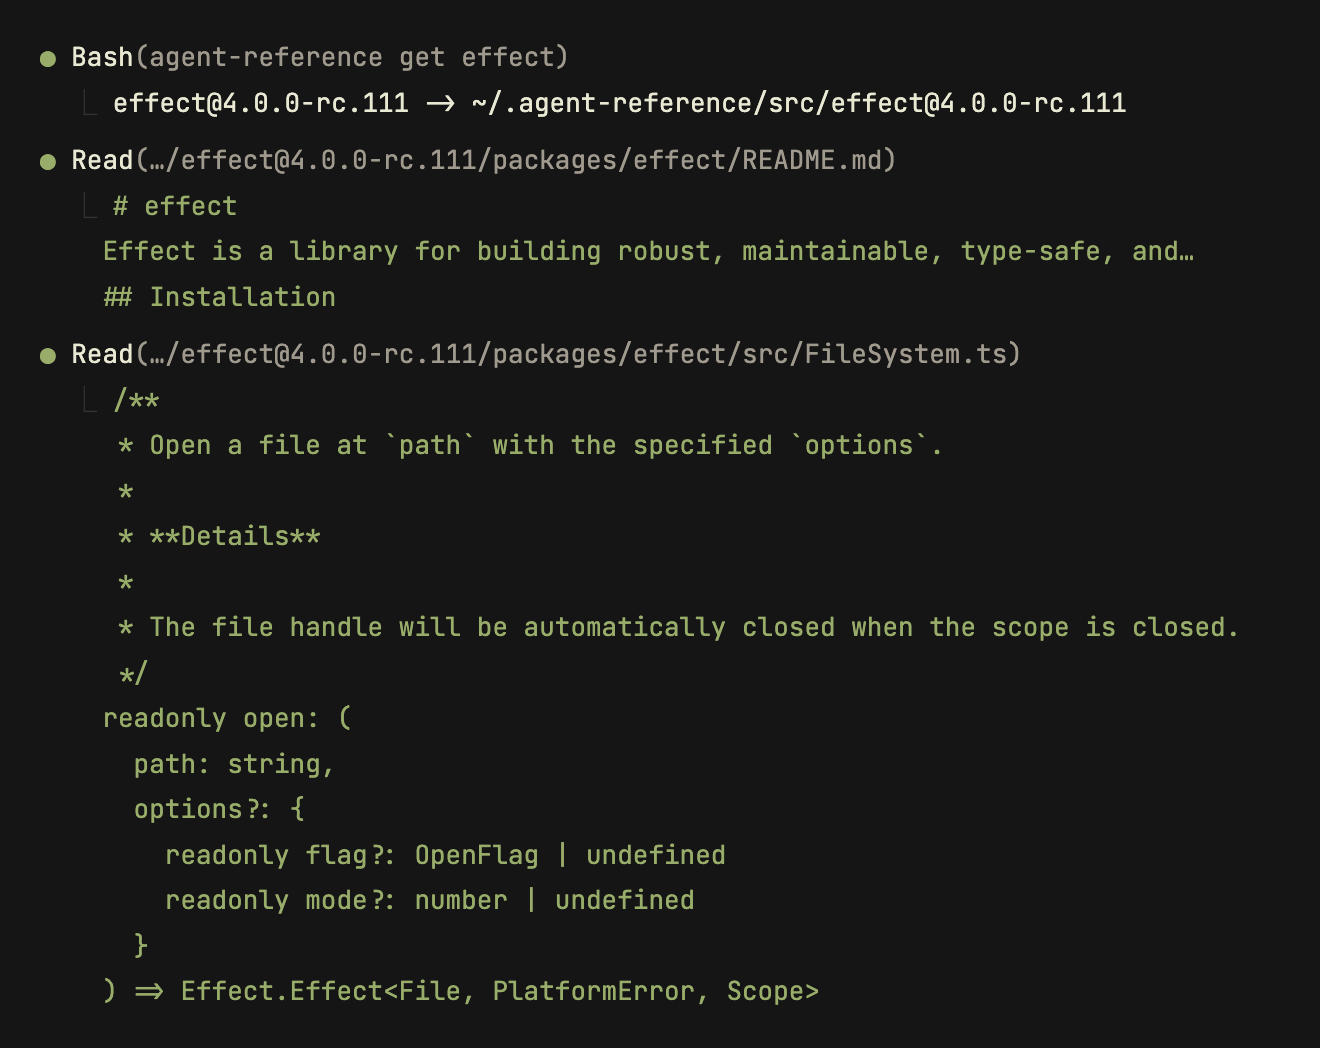
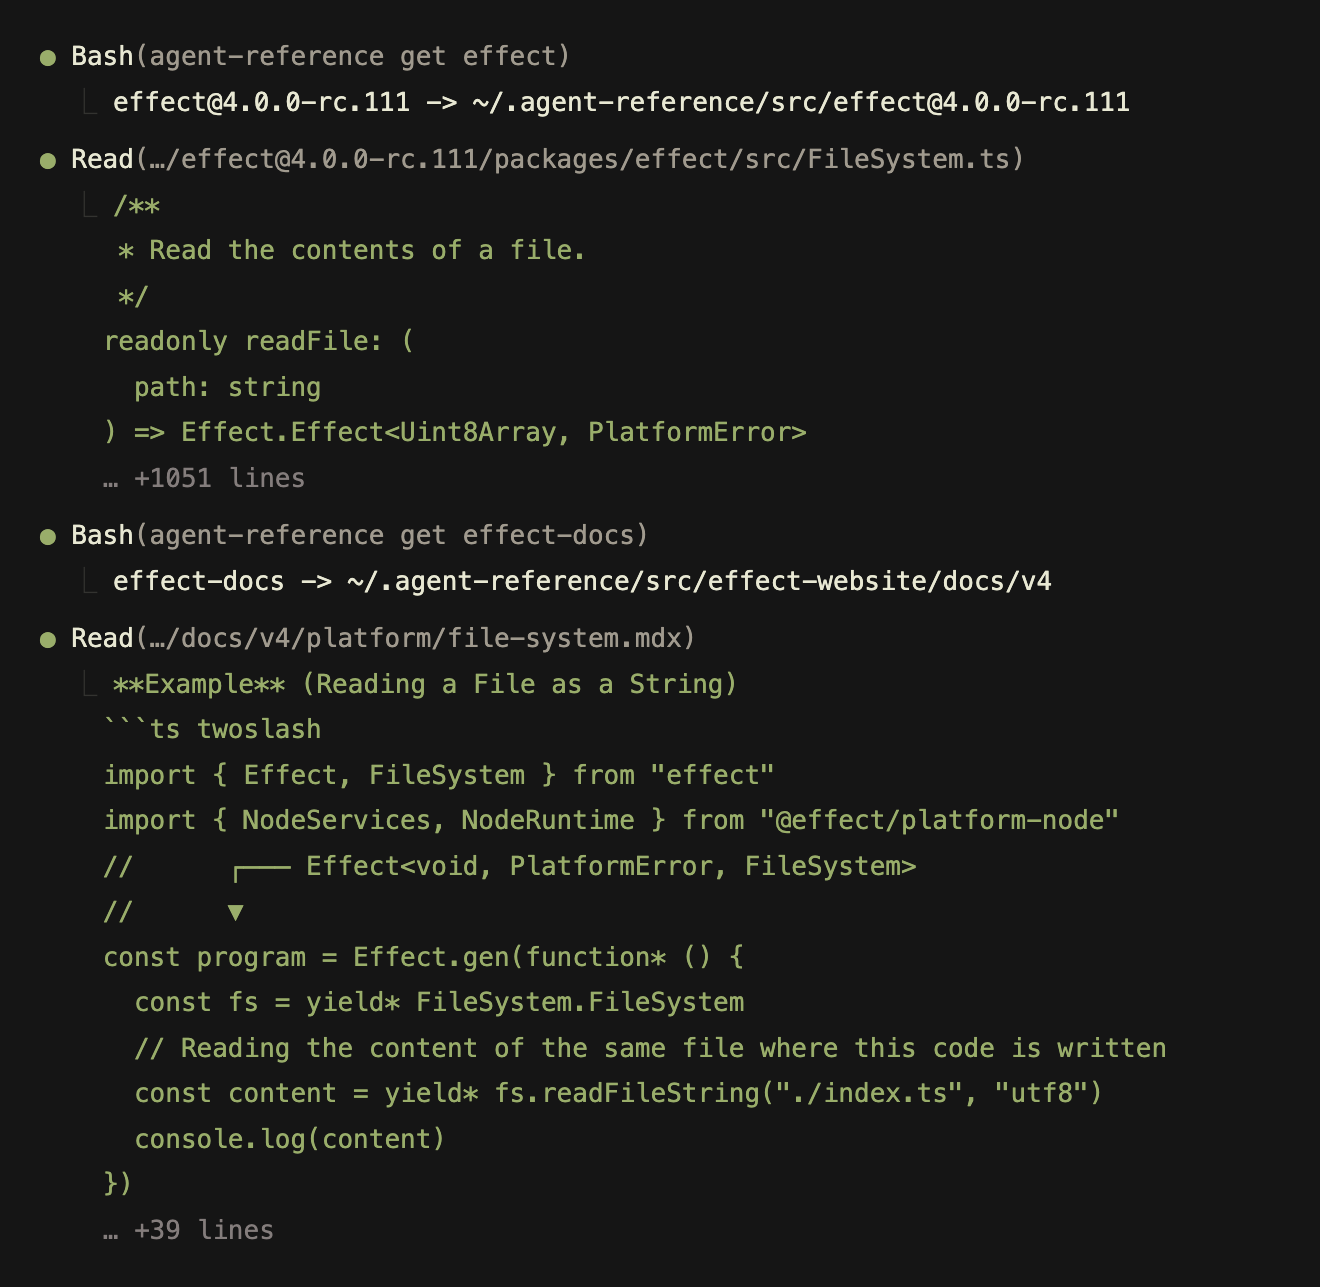
site: read the FileSystem docs page on the first screen, folded like a harness does
The right pane read the package README third, which is prose about installing and says nothing an agent could not have guessed. It now mirrors the left pane call for call: the bundle the agent read there is src/FileSystem.ts here, and the docs page it fetched as markup there is the v4 file-system.mdx out of the website repository here, reached through the effect-docs reference the config already declares. Four calls a side.

FileSystem.ts is quoted at its readFile declaration, six lines, the same function the minified line on the left mangles. The docs page is quoted at the example that reads a file as a string, with the type twoslash infers for it. Both close on a fold line, "… +N lines", the way a harness collapses a long result; N counts the lines of the file after the ones shown, so it is a fact about the file. Session, hero.ts, and the served markdown all carry the fold, dimmed where a surface can dim it.

The served markdown now quotes a fence, so its transcript is fenced with the longer rail fence() already lengthens for that case, and the test that strips fences from index.md learns to match a rail against itself.

diff --git a/site/code-samples.ts b/site/code-samples.ts
@@ -233,25 +233,30 @@ export const trees = {
  * underlines the names that correspond to the panel beside it, since that
  * correspondence is what an example exists to show.
  *
- * `today` and `after` are the first screen, and carry no prompt: three things
- * an agent does when it needs a library and what each got back, against what
+ * `today` and `after` are the first screen, and carry no prompt: what an agent
+ * does when it needs a library and what each attempt got back, against what
  * the tool gives it. The guess leads, because it is the one whose cost a
  * reader has paid personally: it ends in a build that failed rather than in
  * tokens nobody watched. It is also the one block that names another library,
  * since it needs an API that actually moved, and `useVirtual` became
  * `useVirtualizer` between two majors of `@tanstack/react-virtual`. Effect
- * carries the rest: the markup is what the docs site hands a fetch, and every
- * line on the right is real, the README and `src/FileSystem.ts` of the effect
- * package at that tag, quoted verbatim. The bundle line on the left is the
- * pattern rather than the package: Effect's own published build keeps its
- * comments, and the row stands for the many that do not. Each of those two is
- * one line, because that is what a minified bundle and a fetched page are: the
- * elisions that used to chop them into column-width pieces were the narrow
- * pane of one surface written into the source of all three, and an image of
- * that reads as text cut for no reason. Every surface cuts them its own way
- * now, and none of them cuts the data. A result line marked `! ` went wrong
- * and `+ ` went right; the markers are read off before the line is painted. `[[name]]` anywhere in a transcript marks a name
- * the config or the tree beside it declares, so the eye can join the two.
+ * carries the rest: the bundle and the markup on the left are the two things
+ * the right reads as they were written, `src/FileSystem.ts` of the effect
+ * package at that tag and the v4 FileSystem page out of the website
+ * repository, quoted verbatim less blank lines. A result the agent did not
+ * read to the end closes on `… +N lines`, the way a harness folds a long
+ * one; N counts the lines of the file after the ones shown, so it is true of
+ * the file rather than a number that looked right. The bundle line on the
+ * left is the pattern rather than the package: Effect's own published build
+ * keeps its comments, and the row stands for the many that do not. Each of
+ * those two is one line, because that is what a minified bundle and a fetched
+ * page are: the elisions that used to chop them into column-width pieces were
+ * the narrow pane of one surface written into the source of all three, and an
+ * image of that reads as text cut for no reason. Every surface cuts them its
+ * own way now, and none of them cuts the data. A result line marked `! ` went
+ * wrong and `+ ` went right; the markers are read off before the line is
+ * painted. `[[name]]` anywhere in a transcript marks a name the config or the
+ * tree beside it declares, so the eye can join the two.
  *
  * Paths are the readable form, not the literal one. The store keys a checkout
  * by commit, and a commit is not something a person reads, so the page names
@@ -272,25 +277,30 @@ export const terminals = {
 
   after: `* Bash(agent-reference get effect)
   ⎿ effect@4.0.0-rc.111 -> ~/.agent-reference/src/effect@4.0.0-rc.111
-* Read(…/effect@4.0.0-rc.111/packages/effect/README.md)
-  ⎿ + # effect
-    + Effect is a library for building robust, maintainable, type-safe, and…
-    + ## Installation
 * Read(…/effect@4.0.0-rc.111/packages/effect/src/FileSystem.ts)
   ⎿ + /**
-    +  * Open a file at \`path\` with the specified \`options\`.
-    +  *
-    +  * **Details**
-    +  *
-    +  * The file handle will be automatically closed when the scope is closed.
+    +  * Read the contents of a file.
     +  */
-    + readonly open: (
-    +   path: string,
-    +   options?: {
-    +     readonly flag?: OpenFlag | undefined
-    +     readonly mode?: number | undefined
-    +   }
-    + ) => Effect.Effect<File, PlatformError, Scope>`,
+    + readonly readFile: (
+    +   path: string
+    + ) => Effect.Effect<Uint8Array, PlatformError>
+    … +1051 lines
+* Bash(agent-reference get effect-docs)
+  ⎿ effect-docs -> ~/.agent-reference/src/effect-website/docs/v4
+* Read(…/docs/v4/platform/file-system.mdx)
+  ⎿ + **Example** (Reading a File as a String)
+    + \`\`\`ts twoslash
+    + import { Effect, FileSystem } from "effect"
+    + import { NodeServices, NodeRuntime } from "@effect/platform-node"
+    + //      ┌─── Effect<void, PlatformError, FileSystem>
+    + //      ▼
+    + const program = Effect.gen(function* () {
+    +   const fs = yield* FileSystem.FileSystem
+    +   // Reading the content of the same file where this code is written
+    +   const content = yield* fs.readFileString("./index.ts", "utf8")
+    +   console.log(content)
+    + })
+    … +39 lines`,
 
   /**
    * The first screen's failure, run again with the skill installed: the same
@@ -520,7 +530,7 @@ export const copy = {
     beforeAlt:
       'An agent writing useVirtual from memory, the compiler rejecting it, then reading a minified bundle out of node_modules and fetching a docs site that answers in markup.',
     afterAlt:
-      "An agent running agent-reference get effect, then reading that version's own README and the source of FileSystem.ts, comments and all.",
+      'An agent running agent-reference get effect, then reading the source of FileSystem.ts, comments and all, and the FileSystem docs page as its author wrote it.',
     aside: 'Any questions?',
     asideUrl: 'https://www.youtube.com/watch?v=F0kCYP_iPtg',
   },

diff --git a/site/src/components/panels.tsx b/site/src/components/panels.tsx
@@ -300,7 +300,8 @@ function sessionLine(line: string, i: number) {
   // and source read out of a checkout, or a line the agent added to a file.
   // Markers are data, not output, so they are read off and the line takes the
   // tone instead: the theme's red, or the green that means on disk everywhere
-  // else.
+  // else. A result folded at `+N lines` is the harness talking, not the file,
+  // and is dimmed the way a harness dims it.
   const result = line.match(/^(\s+)(\u23BF )?([!+] )?(.*)$/u);
   if (result) {
     const [, indent, elbow, mark, rest] = result;
@@ -312,6 +313,8 @@ function sessionLine(line: string, i: number) {
           <span className={TONE[mark]}>
             <Marked text={rest} />
           </span>
+        ) : FOLD.test(rest) ? (
+          <span className="text-dim">{rest}</span>
         ) : rest.includes('[[') ? (
           <Marked text={rest} />
         ) : (
@@ -330,6 +333,9 @@ function sessionLine(line: string, i: number) {
 
 /** What each result marker paints its line in. */
 const TONE: Record<string, string> = { '! ': 'text-bad', '+ ': 'text-ok' };
+
+/** The line a harness folds the rest of a long result behind. */
+const FOLD = /^… \+\d+ lines$/u;
 
 /** Text without its `[[ ]]` markers, for measuring. */
 const unmarked = (text: string) => text.replaceAll(/\[\[([^\]]+)\]\]/gu, '$1');

diff --git a/site/hero.ts b/site/hero.ts
@@ -27,8 +27,9 @@ const escape = (text: string) =>
 
 /**
  * One transcript line, painted the way `Session` paints it: a call carries the
- * dot, a result carries the tone its marker asked for, and the marker itself
- * never reaches the page.
+ * dot, a result carries the tone its marker asked for, the fold that stands
+ * for the rest of a long result is dimmed, and the marker itself never
+ * reaches the page.
  */
 function line(text: string): string {
   if (text.startsWith('* ')) {
@@ -43,7 +44,8 @@ function line(text: string): string {
   const result = /^(\s+)(⎿ )?([!+] )?(.*)$/u.exec(text);
   if (!result) return `<div>${escape(text)}</div>`;
   const [, indent = '', elbow, mark, rest = ''] = result;
-  const tone = mark === '! ' ? c.bad : mark === '+ ' ? c.ok : c.fg;
+  const tone =
+    mark === '! ' ? c.bad : mark === '+ ' ? c.ok : /^… \+\d+ lines$/u.test(rest) ? c.dim : c.fg;
   const rail = elbow ? `<span style="color:${c.line}">⎿ </span>` : '';
   return `<div class="result">${indent.replaceAll(' ', '&nbsp;')}${rail}<span style="color:${tone}">${escape(rest)}</span></div>`;
 }

diff --git a/site/src/routes/index.tsx b/site/src/routes/index.tsx
@@ -44,8 +44,8 @@ function Section({ label, children }: { label: string; children: React.ReactNode
 /**
  * How the first screen plays. A tool call is read at a glance, so the pace is
  * the reader's rather than a typist's: the sequence is over before anyone
- * decides to scroll past it. Four calls on the left and three on the right,
- * one after another, is what these have to add up against.
+ * decides to scroll past it. Four calls on each side, one after another, is
+ * what these have to add up against.
  */
 const REVEAL = {
   /** Between one tool call and the next. */

diff --git a/tests/agent-files.test.ts b/tests/agent-files.test.ts
@@ -52,7 +52,8 @@ test('llms.txt has the shape llmstxt.org describes', () => {
 });
 
 test('index.md carries the page sections, in the page order', () => {
-  const prose = served('index.md').replaceAll(/```[^\n]*\n[\s\S]*?```/gu, '');
+  // A block quoting a fence is fenced with a longer rail, and closes on the same one.
+  const prose = served('index.md').replaceAll(/^(`{3,})[^\n]*\n[\s\S]*?^\1$/gmu, '');
   const headings = [...prose.matchAll(/^## (.+)$/gm)].map((match) => match[1]);
   assert.deepEqual(headings, [
     copy.getStarted.heading,

diff --git a/site/public/index.md b/site/public/index.md
@@ -19,29 +19,34 @@ A CLI your agent uses to read the source of your dependencies at the version you
 
 ### Your agent, with the source
 
-```text
+````text
 * Bash(agent-reference get effect)
   ⎿ effect@4.0.0-rc.111 -> ~/.agent-reference/src/effect@4.0.0-rc.111
-* Read(…/effect@4.0.0-rc.111/packages/effect/README.md)
-  ⎿ # effect
-    Effect is a library for building robust, maintainable, type-safe, and…
-    ## Installation
 * Read(…/effect@4.0.0-rc.111/packages/effect/src/FileSystem.ts)
   ⎿ /**
-     * Open a file at `path` with the specified `options`.
-     *
-     * **Details**
-     *
-     * The file handle will be automatically closed when the scope is closed.
+     * Read the contents of a file.
      */
-    readonly open: (
-      path: string,
-      options?: {
-        readonly flag?: OpenFlag | undefined
-        readonly mode?: number | undefined
-      }
-    ) => Effect.Effect<File, PlatformError, Scope>
-```
+    readonly readFile: (
+      path: string
+    ) => Effect.Effect<Uint8Array, PlatformError>
+    … +1051 lines
+* Bash(agent-reference get effect-docs)
+  ⎿ effect-docs -> ~/.agent-reference/src/effect-website/docs/v4
+* Read(…/docs/v4/platform/file-system.mdx)
+  ⎿ **Example** (Reading a File as a String)
+    ```ts twoslash
+    import { Effect, FileSystem } from "effect"
+    import { NodeServices, NodeRuntime } from "@effect/platform-node"
+    //      ┌─── Effect<void, PlatformError, FileSystem>
+    //      ▼
+    const program = Effect.gen(function* () {
+      const fs = yield* FileSystem.FileSystem
+      // Reading the content of the same file where this code is written
+      const content = yield* fs.readFileString("./index.ts", "utf8")
+      console.log(content)
+    })
+    … +39 lines
+````
 
 ## Get started
 

diff --git a/README.md b/README.md
@@ -19,7 +19,7 @@ A CLI your agent uses to read the source of your dependencies at the version you
 
 ### Your agent, with the source
 
-![An agent running agent-reference get effect, then reading that version's own README and the source of FileSystem.ts, comments and all.](https://agent-reference.dev/hero-with.png)
+![An agent running agent-reference get effect, then reading the source of FileSystem.ts, comments and all, and the FileSystem docs page as its author wrote it.](https://agent-reference.dev/hero-with.png)
 <!-- /generated -->
 
 ## Get started
